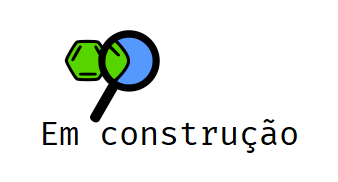
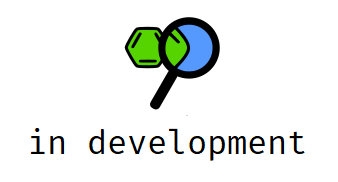
map query in development

Changed region(s): [[0.1775, 0.0824, 0.6509, 0.6868], [0.2663, 0.6319, 0.9172, 0.8791], [0.0888, 0.6593, 0.2367, 0.8516]]

diff --git a/resources/views/livewire/map-search.blade.php b/resources/views/livewire/map-search.blade.php
@@ -1,4 +1,6 @@
 <div class="overflow-y-scroll w-full mt-16 px-2 overflow-x-hidden lg:px-10">
+    <svg xmlns="http://www.w3.org/2000/svg" data-name="Layer 1" width="691.92701" height="626.3022" viewBox="0 0 691.92701 626.3022" xmlns:xlink="http://www.w3.org/1999/xlink"><path d="M738.49913,254.675a9.09694,9.09694,0,0,0,10.05778,7.73515,8.72772,8.72772,0,0,0,1.40961-.3073l18.96022,25.45,16.29882-5.0772-29.74242-32.05526a9.0717,9.0717,0,0,0-9.50174-5.69,8.68158,8.68158,0,0,0-7.51563,9.70852Q738.48083,254.55717,738.49913,254.675Z" transform="translate(-254.03649 -136.8489)" fill="#a0616a"/><path d="M872.38313,368.34158s-70.79724-33.041-88.70591-54.145l-32.09057-39.84468,16.27516-13.31426,30.164,34.7438c-.275,7.30032,35.37754,14.78486,54.54385,25.42606Z" transform="translate(-254.03649 -136.8489)" fill="#e6e6e6"/><polygon points="635.752 610.051 621.866 610.05 615.26 556.486 635.755 556.487 635.752 610.051" fill="#a0616a"/><path d="M890.27817,761.386l-42.70332-.00161v-.54005a16.62222,16.62222,0,0,1,16.62132-16.62106h.001l7.8003-5.91772,14.55366,5.91862,3.72772.00013Z" transform="translate(-254.03649 -136.8489)" fill="#2f2e41"/><polygon points="602.646 597.799 589.123 600.953 570.519 550.292 590.478 545.636 602.646 597.799" fill="#a0616a"/><path d="M860.45118,748.64433l-41.58665,9.70177-.12271-.52593a16.62222,16.62222,0,0,1,12.40979-19.96309l.001-.00024,6.2516-7.53536L852.922,732.7783l3.63023-.84691Z" transform="translate(-254.03649 -136.8489)" fill="#2f2e41"/><path d="M721.14363,434.12129H334.61245a31.92473,31.92473,0,0,1-7.237-.91724,32.30942,32.30942,0,0,1-24.76137-31.51167V270.31058A32.45041,32.45041,0,0,1,335.043,237.91112H721.14363a32.00925,32.00925,0,0,1,14.94377,3.65776,31.05772,31.05772,0,0,1,5.18229,3.38146,32.07082,32.07082,0,0,1,12.30284,25.36024v131.3818A32.46476,32.46476,0,0,1,721.14363,434.12129Z" transform="translate(-254.03649 -136.8489)" fill="#f2f2f2"/><path d="M695.23517,431.24894q26.32506-63.98151,55.465-126.69921v70.88952c-13.47131,20.10642-28.40751,38.97774-45.72776,55.80969Z" transform="translate(-254.03649 -136.8489)" fill="#5599ff"/><path d="M739.46939,247.18892q-52.09012,93.45182-109.00559,184.06h-6.60636Q681.72083,339.219,734.7587,244.11549A28.23273,28.23273,0,0,1,739.46939,247.18892Z" transform="translate(-254.03649 -136.8489)" fill="#5599ff"/><path d="M484.6347,315.20607a1171.09567,1171.09567,0,0,1-74.99692,116.04287H370.25784q38.69069-47.13522,77.43853-94.27043c7.4107-9.048,15.45324-18.52667,26.5692-22.20319Z" transform="translate(-254.03649 -136.8489)" fill="#5599ff"/><path d="M432.30063,308.772c-4.10761,4.27977-8.04271,8.73187-11.748,13.35648-8.15754,9.82338-16.20008,19.733-24.27137,29.61389-5.0266,6.14669-10.05321,12.29355-15.02231,18.44042a36.68253,36.68253,0,0,1-4.48086-3.38935,40.19154,40.19154,0,0,1,51.35757-61.813A37.04566,37.04566,0,0,1,432.30063,308.772Z" transform="translate(-254.03649 -136.8489)" fill="#fff"/><path d="M654.41907,336.69117,578.93389,309.088,541.4498,295.387c-12.20747-4.45227-24.38637-9.53621-36.99583-12.75322a58.32446,58.32446,0,0,0-33.49166.43074,77.00124,77.00124,0,0,0-26.10954,16.20008q-4.998,4.61014-9.67979,9.50746c-4.10761,4.27977-8.04271,8.73187-11.748,13.35648-8.15754,9.82338-16.20007,19.733-24.27136,29.61389-5.02661,6.14669-10.05321,12.29355-15.02232,18.44042Q359.228,400.6441,334.6121,431.24894a28.78647,28.78647,0,0,1-6.549-.83309q25.67887-31.88289,51.58741-63.62237c1.98193-2.47018,4.02118-4.96928,6.03186-7.43946q12.62392-15.46743,25.27661-30.90647c6.52029-7.95629,12.98307-15.97024,20.0491-23.467.63183-.68933,1.26384-1.34992,1.92442-2.03943,14.333-14.82123,32.22782-27.91912,53.65542-28.26379,12.60964-.20108,24.78836,3.79152,36.50759,8.01378,12.60964,4.56711,25.19053,9.2203,37.8,13.84474l76.00236,27.80429,19.01492,6.95121C659.27334,332.49765,657.83717,337.955,654.41907,336.69117Z" transform="translate(-254.03649 -136.8489)" fill="#5599ff"/><path d="M256.03649,285.01621V206.141a9.29554,9.29554,0,0,1,9.29-9.27978h102.21v-2h-102.21a11.29753,11.29753,0,0,0-11.29,11.27978v78.87525Z" transform="translate(-254.03649 -136.8489)" fill="#3f3d56"/><path d="M263.13122,474.90952a9.25725,9.25725,0,0,1-7.09473-9.02832v-78.865h-2v78.865a11.24844,11.24844,0,0,0,8.62061,10.9707,11.11481,11.11481,0,0,0,2.51953.31934H367.53649v-2H265.18884A9.13335,9.13335,0,0,1,263.13122,474.90952Z" transform="translate(-254.03649 -136.8489)" fill="#3f3d56"/><path d="M721.03649,387.01621v78.865a9.30086,9.30086,0,0,1-9.29,9.29h-102.21v2h102.21a11.30252,11.30252,0,0,0,11.29-11.29v-78.865Z" transform="translate(-254.03649 -136.8489)" fill="#3f3d56"/><path d="M719.02771,197.90952a8.8598,8.8598,0,0,1,1.481.96777,9.18461,9.18461,0,0,1,3.52783,7.26367v78.87525h2V206.141a11.16537,11.16537,0,0,0-4.2832-8.8291,10.81314,10.81314,0,0,0-1.8042-1.17725,11.144,11.144,0,0,0-5.20263-1.27343h-102.21v2h102.21A9.16859,9.16859,0,0,1,719.02771,197.90952Z" transform="translate(-254.03649 -136.8489)" fill="#3f3d56"/><path d="M901.82164,486.821l-86.40181,4.33071-6,29v25.83059l-3.68247,96.17728,25.68247,74.99213h20.59055l-2.09055-9.5v0a9.9134,9.9134,0,0,0,.34076-11.02335l-1.65178-2.64073-2.689-11.33591-6-42,25.69685-94.66941,3.30315,172.66941h22.36878l3.28087-3.74715a12.56945,12.56945,0,0,0,.99209-15.26658l0,0v-4.187l-2.64173-14.79921,24.6527-183.70863Z" transform="translate(-254.03649 -136.8489)" fill="#2f2e41"/><path d="M864.4892,306.7949l-28.18455,1.4434-3.20191,13.35848-20.46752,15.664a31.24781,31.24781,0,0,0-11.67011,30.84172L812.31035,425.819l-.73782,36.12405,1.63712,14.79254-.12375,2.23946-2.50627,2.05133a9.70076,9.70076,0,0,0-2.5272,11.85562l0,0s-12.35083,26.70277,5.52009,28.061,28.92474-17.22441,46-10,32.319,8.0709,37,0,18.9221-6.18976,20.6347-13.24057-6.9581-15.03189-8.12275-25.54134-4.16465-59.50946-4.16465-59.50946l8.38982-48.1071a31.86754,31.86754,0,0,0-17.44409-34.12721l-26.86088-13.07747Z" transform="translate(-254.03649 -136.8489)" fill="#e6e6e6"/><path d="M717.70434,457.41566a10.35022,10.35022,0,0,1,13.48451-5.15508,9.92949,9.92949,0,0,1,1.43652.79428l28.96126-21.56569L777.7,442.33457l-42.86733,25.253a10.32151,10.32151,0,0,1-12.212,3.10684,9.87764,9.87764,0,0,1-5.02958-13.03225Q717.646,457.53815,717.70434,457.41566Z" transform="translate(-254.03649 -136.8489)" fill="#a0616a"/><path d="M807.68879,343.6834s-37.54186,68.35894-52.07994,88.46459l-11.03632,8.61988,1,28.17519L770.234,455.33429s49.76536-37.6959,48.33851-53.39123S807.68879,343.6834,807.68879,343.6834Z" transform="translate(-254.03649 -136.8489)" fill="#e6e6e6"/><circle cx="593.96877" cy="141.05742" r="26.63173" fill="#a0616a"/><path d="M858.29571,302.35513c-7.64231-.25074-8.33653-2.26936-15.97883-2.5201-2.43339-.07984-5.30489-.41335-6.48134-2.545-.8379-1.51819-.45234-3.43.28508-4.99943a45.65624,45.65624,0,0,0,2.35431-4.63127,8.08891,8.08891,0,0,0-8.01463-10.66433c-2.32567.1005-4.50985,1.19417-6.82909,1.394-3.18068.27414-10.214-10.22767-8.7496-13.06447,1.42547-2.76135,4.29416-4.8447,4.745-7.91939.2949-2.011-.53521-4.00912-.64864-6.03845-.16818-3.00894,7.45914,3.77557,6.06228,1.10521-3.42656-6.55054,28.86321-14.67148,34.17918-6.46633,1.98679,3.06661,5.52756,2.85744,8.68348,4.69913,2.06842,1.20706,7.29141,5.37134,8.4788,7.96688a20.20808,20.20808,0,0,1,1.51246,8.36142c.04777,13.31425-1.98065,25.56131-12.72,33.43136" transform="translate(-254.03649 -136.8489)" fill="#2f2e41"/><path d="M725.52515,755.25331A48.67528,48.67528,0,0,1,686.26591,740.608c-6.59053-6.94854-11.11322-15.89233-15.48708-24.54163-1.2732-2.51692-2.58928-5.1197-3.9282-7.61425a15.53411,15.53411,0,0,1,1.61174-17.33177,15.27246,15.27246,0,0,1,16.303-5.20879l.63822.18437,5.74416,22.41411c.85694-3.34324,2.69631-10.87592,3.85784-18.25612l.09758-.61814.572.25475a78.13219,78.13219,0,0,1,16.78623,10.11535A80.52868,80.52868,0,0,1,742.57359,760.649l.0152.697Z" transform="translate(-254.03649 -136.8489)" fill="#f2f2f2"/><path d="M944.77282,762.84377l-278.75.30733a1.19069,1.19069,0,0,1,0-2.38137l278.75-.30733a1.19069,1.19069,0,1,1,0,2.38137Z" transform="translate(-254.03649 -136.8489)" fill="#cacaca"/><path d="M413.48909,559.42971a26.16382,26.16382,0,1,1,26.16383-26.16381A26.16383,26.16383,0,0,1,413.48909,559.42971Z" transform="translate(-254.03649 -136.8489)" fill="#e6e6e6"/><path d="M423.81264,530.685H416.07v-7.74272a2.58094,2.58094,0,0,0-5.16187,0V530.685h-7.74272a2.5809,2.5809,0,0,0,0,5.16179h7.74272v7.74271a2.58094,2.58094,0,0,0,5.16187,0v-7.74271h7.74261a2.5809,2.5809,0,1,0,0-5.16179Z" transform="translate(-254.03649 -136.8489)" fill="#fff"/><path d="M490.03649,559.42971a26.16382,26.16382,0,1,1,26.16383-26.16381A26.16383,26.16383,0,0,1,490.03649,559.42971Z" transform="translate(-254.03649 -136.8489)" fill="#e6e6e6"/><path d="M500.36,530.685H479.71283a2.5809,2.5809,0,0,0,0,5.16179H500.36a2.58089,2.58089,0,1,0,0-5.16179Z" transform="translate(-254.03649 -136.8489)" fill="#fff"/><path d="M566.58389,559.42971a26.16382,26.16382,0,1,1,26.16383-26.16381A26.16383,26.16383,0,0,1,566.58389,559.42971Z" transform="translate(-254.03649 -136.8489)" fill="#e6e6e6"/><path d="M581.30315,532.023l-7.41733-10.82634a2.19976,2.19976,0,0,0-3.6294,2.48662l4.797,7.00173H556.26026a2.5809,2.5809,0,1,0,0,5.1618h19.02923l-5.03307,7.34623a2.19976,2.19976,0,0,0,3.6294,2.48662l7.41733-10.82634a2.90262,2.90262,0,0,0,0-2.83032Z" transform="translate(-254.03649 -136.8489)" fill="#fff"/><circle cx="236" cy="27.78" r="27.78" fill="#5599ff"/><path d="M486.24673,179.08709a3.08928,3.08928,0,0,1-2.47187-1.2363l-7.57881-10.10525a3.09008,3.09008,0,1,1,4.94424-3.70793l4.95831,6.61059,12.7348-19.10194a3.0902,3.0902,0,1,1,5.1424,3.42827L488.81818,177.711a3.09148,3.09148,0,0,1-2.48544,1.37513C486.30407,179.08659,486.2754,179.08709,486.24673,179.08709Z" transform="translate(-254.03649 -136.8489)" fill="#fff"/></svg>
+    In development...
     <div class="mt-5 mx-2">
         <div class="w-11/12 mx-1">
             <label for="search" class="text-md font-medium text-left text-gray-700">

diff --git a/resources/views/livewire/mol-page.blade.php b/resources/views/livewire/mol-page.blade.php
@@ -1,13 +1,13 @@
 <div class="mt-20 mb-20 px-4 lg:px-32">
     <div class="text-2xl font-mono font-semibold mb-4 text-center">
-        {{ $name_mol }} na espécie <span class="italic">{{ $species }}</span>
+        {{ $name_mol }} in the species <span class="italic">{{ $species }}</span>
     </div>
     <div class="flex-none w-full">
-        <div class="block h-8 mt-12 pt-2 pb-8 text-center font-semibold align-center rounded-md bg-gradient-to-r from-cyan-100 via-purple-100 to-blue-50">Estrutura molecular (MolView)</div>
+        <div class="block h-8 mt-12 pt-2 pb-8 text-center font-semibold align-center rounded-md bg-gradient-to-r from-cyan-100 via-purple-100 to-blue-50">Molecular structure (MolView)</div>
         <div class="block mx-auto text-center py-3">
             <iframe class="w-90/100" frameborder="0" src="https://embed.molview.org/v1/?mode=balls&cid=1183&bg=white"></iframe>
         </div>
-        <div class="block h-8 mt-12 pt-2 pb-8 text-center font-semibold align-center rounded-md bg-gradient-to-r from-cyan-100 via-purple-100 to-blue-50">Espectro de massas</div>
+        <div class="block h-8 mt-12 pt-2 pb-8 text-center font-semibold align-center rounded-md bg-gradient-to-r from-cyan-100 via-purple-100 to-blue-50">Mass spectra</div>
         <div class="block mx-auto text-center py-3">
             <div class="mx-auto w-90/100 lg:w-3/6">
                 <canvas id="myChart"></canvas>
@@ -15,15 +15,15 @@
         </div>
         <div class="block mx-auto text-center py-3">
             <a href="../../spectra/{{ $spectra_file }}" target="_blank" class="font-semibold text-red-700 underline">
-                Download do espectro
+                Spectra download
             </a>
             <p class="mt-2 text-sm text-gray-600">
-                (formato: m/z,intensidade)
+                (format: m/z,intensity)
             </p>
         </div>
-        <div class="block h-8 mt-12 pt-2 pb-8 text-center font-semibold align-center rounded-md bg-gradient-to-r from-cyan-100 via-purple-100 to-blue-50">Fórmula molecular</div>
+        <div class="block h-8 mt-12 pt-2 pb-8 text-center font-semibold align-center rounded-md bg-gradient-to-r from-cyan-100 via-purple-100 to-blue-50">Molecular formula</div>
         <div class="block mx-auto text-center py-3">{{ $formula }}</div>
-        <div class="block h-8 mt-12 pt-2 pb-8 text-center font-semibold align-center rounded-md bg-gradient-to-r from-cyan-100 via-purple-100 to-blue-50">Massa (m/z)</div>
+        <div class="block italic h-8 mt-12 pt-2 pb-8 text-center font-semibold align-center rounded-md bg-gradient-to-r from-cyan-100 via-purple-100 to-blue-50">m/z</div>
         <div class="block mx-auto text-center py-3">{{ $mass }}</div>
         <div class="block h-8 mt-12 pt-2 pb-8 text-center font-semibold align-center rounded-md bg-gradient-to-r from-cyan-100 via-purple-100 to-blue-50">CID PubChem (link)</div>
         <div class="block mx-auto text-center py-3">
@@ -31,9 +31,9 @@
                 {{ $IDPubChem }}
             </a>
         </div>
-        <div class="block h-8 mt-12 pt-2 pb-8 text-center font-semibold align-center rounded-md bg-gradient-to-r from-cyan-100 via-purple-100 to-blue-50">Aplicabilidade</div>
+        <div class="block h-8 mt-12 pt-2 pb-8 text-center font-semibold align-center rounded-md bg-gradient-to-r from-cyan-100 via-purple-100 to-blue-50">Applicability</div>
         <div class="block mx-auto text-center py-3">{{ $applicability }}</div>
-        <div class="block h-8 mt-12 pt-2 pb-8 text-center font-semibold align-center rounded-md bg-gradient-to-r from-cyan-100 via-purple-100 to-blue-50">Referências das aplicabilidades</div>
+        <div class="block h-8 mt-12 pt-2 pb-8 text-center font-semibold align-center rounded-md bg-gradient-to-r from-cyan-100 via-purple-100 to-blue-50">Applicability references</div>
         <div class="block mx-auto text-center py-3">
             <a href="{{ $biblio_ref }}" target="_blank" class="text-red-700 underline">
                 {{ $biblio_ref }}
@@ -44,11 +44,11 @@
         Metadados do experimento
     </div>
     <div class="flex-none w-full">
-        <div class="block h-8 mt-12 pt-2 pb-8 text-center font-semibold align-center rounded-md bg-gradient-to-r from-cyan-100 via-purple-100 to-blue-50">Instrumento de análise</div>
+        <div class="block h-8 mt-12 pt-2 pb-8 text-center font-semibold align-center rounded-md bg-gradient-to-r from-cyan-100 via-purple-100 to-blue-50">Analysis instrument</div>
         <div class="block mx-auto text-center py-3">{{ $instrument }}</div>
-        <div class="block h-8 mt-12 pt-2 pb-8 text-center font-semibold align-center rounded-md bg-gradient-to-r from-cyan-100 via-purple-100 to-blue-50">Modos de ionização</div>
+        <div class="block h-8 mt-12 pt-2 pb-8 text-center font-semibold align-center rounded-md bg-gradient-to-r from-cyan-100 via-purple-100 to-blue-50">Ionization modes</div>
         <div class="block mx-auto text-center py-3">{{ $ion_mode }}</div>
-        <div class="block h-8 mt-12 pt-2 pb-8 text-center font-semibold align-center rounded-md bg-gradient-to-r from-cyan-100 via-purple-100 to-blue-50">Abordagem (alvo, não-alvo)</div>
+        <div class="block h-8 mt-12 pt-2 pb-8 text-center font-semibold align-center rounded-md bg-gradient-to-r from-cyan-100 via-purple-100 to-blue-50">Approach (targeted/untargeted)</div>
         <div class="block mx-auto text-center py-3">{{ $approach }}</div>
         <div class="block h-8 mt-12 pt-2 pb-8 text-center font-semibold align-center rounded-md bg-gradient-to-r from-cyan-100 via-purple-100 to-blue-50">Órgão vegetal</div>
         <div class="block mx-auto text-center py-3">{{ $plant_organ }}</div>
